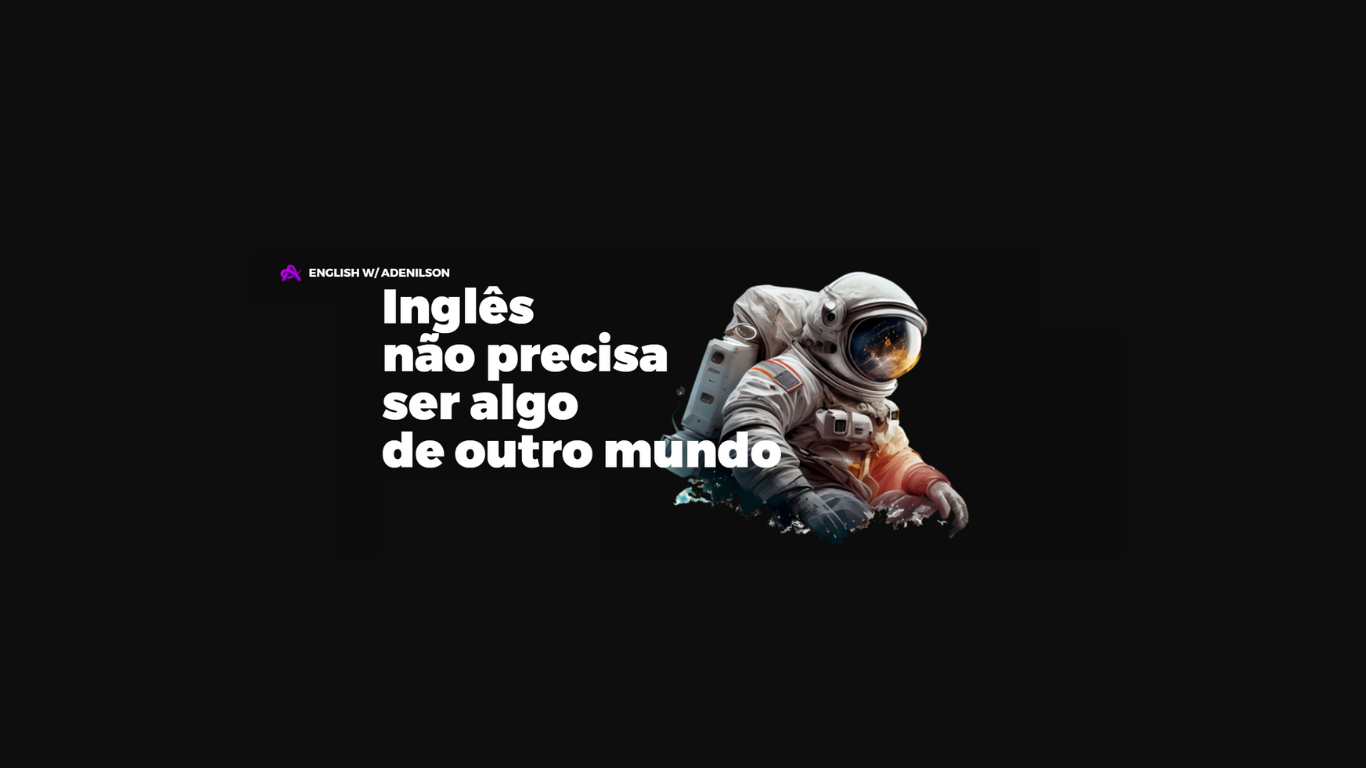
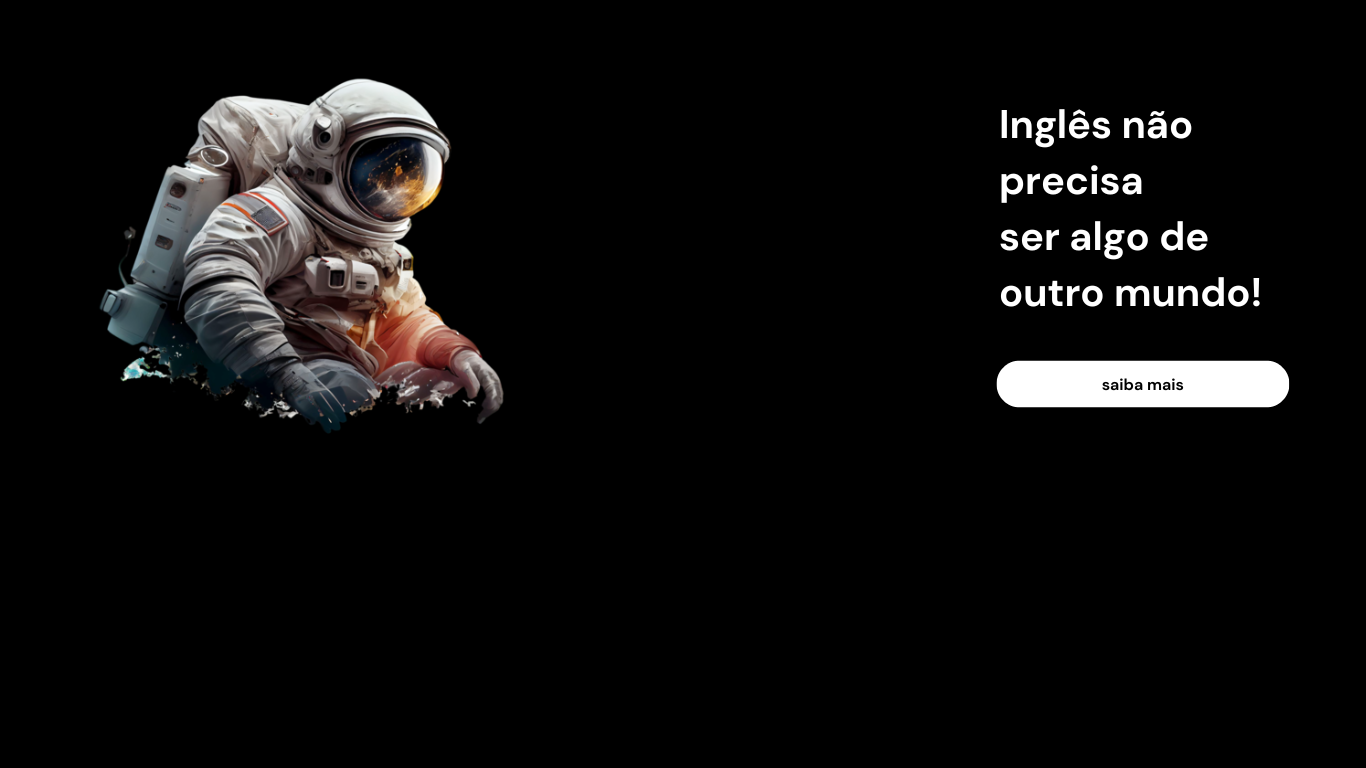
update1

diff --git a/curso-english-for-brazilians.html b/curso-english-for-brazilians.html
@@ -36,7 +36,7 @@
                  </div>
             </div>                    
             <div class="item">
-                <img src="./assets/curso1-images-course/seu-futuro-bg.png" alt="Seu futuro brilhante!"> <!-- img size 960 x 543 -->
+                <img src="./assets/curso1-images-course/ingles-facil-bg.png" alt="Aprender Inglês, nunca foi tão fácil!"> <!-- img size 1366 x 768 -->
                 <div class="cover">
                     <div class="container">
                         <div class="header-content">
@@ -50,7 +50,7 @@
             </div>
             <a href="https://adenilsonribeiro.com">                
             <div class="item">              
-                <img src="./assets/curso1-images-course/adenilson-bg.png" alt="Screenshot of the site"> <!-- img size 960 x 543 -->
+                <img src="./assets/curso1-images-course/adenilson-bg.png" alt="Site Slogan"> <!-- img size 1366 x 768 -->
                 <div class="cover">
                     <div class="container">
                         <div class="header-content">
